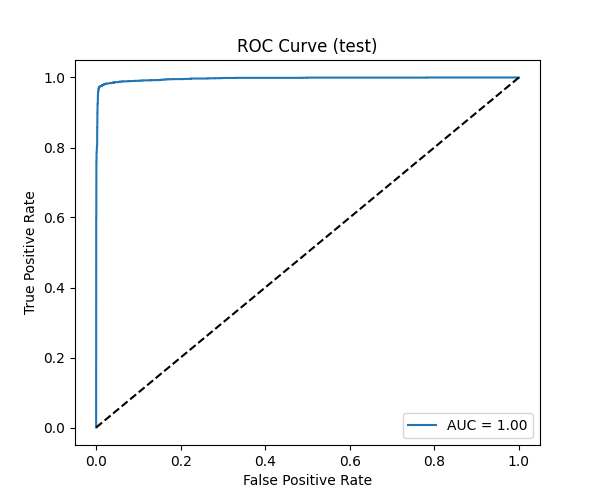
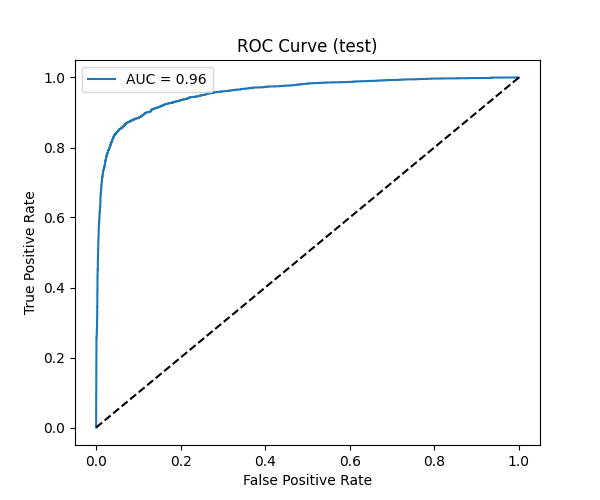
Diafores allages sta scirpts

diff --git a/src/Models/Random Forest - Gradient Boosting/Gradient_Booster.py b/src/Models/Random Forest - Gradient Boosting/Gradient_Booster.py
@@ -5,9 +5,8 @@ import mlflow
 import sys
 import os
 import time
-from sklearn.ensemble import GradientBoostingClassifier
+from sklearn.linear_model import SGDClassifier
 from sklearn.metrics import accuracy_score, f1_score
-
 sys.path.append(os.path.abspath(os.path.join(os.path.dirname(__file__), '..')))
 import mlflow_helper
 
@@ -16,8 +15,13 @@ current_script_path = os.path.dirname(os.path.abspath(__file__))
 project_root = os.path.abspath(os.path.join(current_script_path, '../../..'))
 DATA_FOLDER = os.path.join(project_root, 'data', 'clean', 'umap')
 
-
 def load_split_data(data_path):
+    """
+    Φορτώνει τα έτοιμα Train/Valid/Test αρχεία Parquet.
+    - Διαχειρίζεται αυτόματα fastparquet/pyarrow.
+    - Αναγνωρίζει τα features και το label.
+    - Δεν εφαρμόζει scaling (βάσει οδηγίας).
+    """
     files = {
         "Train": "train_umap_500.parquet",
         "Valid": "valid_umap_500.parquet",
@@ -36,7 +40,7 @@ def load_split_data(data_path):
             print(f"❌ Το αρχείο {filename} δεν βρέθηκε.")
             sys.exit(1)
 
-        # 1. Φόρτωση DataFrame
+        # 1. Φόρτωση DataFrame (Δοκιμή fastparquet -> pyarrow)
         try:
             df = pd.read_parquet(file_path, engine='fastparquet')
         except Exception:
@@ -58,26 +62,33 @@ def load_split_data(data_path):
                 label_col = col
                 break
 
+        # Fallback: Αν δεν βρεθεί label, ψάχνουμε για εξωτερικό αρχείο ή την εναπομείνασα στήλη
         if label_col is None:
             remaining = [c for c in df.columns if c not in feature_cols]
             if len(remaining) == 1:
                 label_col = remaining[0]
                 print(f"   ⚠ {name}: Αυτόματος εντοπισμός label στήλης: '{label_col}'")
+            else:
+                # Έλεγχος για εξωτερικό αρχείο labels
+                prefix = filename.split('_')[0]
+                ext_label_path = os.path.join(data_path, f"{prefix}_labels.csv")
+                if os.path.exists(ext_label_path):
+                    print(f"   ℹ {name}: Ανάγνωση labels από εξωτερικό αρχείο ({prefix}_labels.csv)")
+                    df_labels = pd.read_csv(ext_label_path)
+                    y = df_labels.iloc[:, 0].values.astype(int)
+                    # Εδώ πρέπει να ορίσουμε το X και να συνεχίσουμε
+                    X = df[feature_cols].values.astype(np.float32)
+                    loaded_data[name] = (X, y)
+                    print(f"   ✅ {name} loaded: X={X.shape}, y={y.shape}")
+                    continue
+                else:
+                    print(f"⛔ Σφάλμα στο {name}: Δεν βρέθηκε στήλη label.")
+                    sys.exit(1)
 
         if label_col:
             if label_col in feature_cols:
                 feature_cols.remove(label_col)
             y = df[label_col].values.astype(int)
-        else:
-            # Fallback: Έλεγχος για εξωτερικό αρχείο
-            prefix = filename.split('_')[0]
-            ext_label_path = os.path.join(data_path, f"{prefix}_labels.csv")
-            if os.path.exists(ext_label_path):
-                print(f"   ℹ {name}: Ανάγνωση labels από εξωτερικό αρχείο ({prefix}_labels.csv)")
-                y = pd.read_csv(ext_label_path).iloc[:, 0].values.astype(int)
-            else:
-                print(f"⛔ Σφάλμα στο {name}: Δεν βρέθηκε στήλη label.")
-                sys.exit(1)
 
         # 4. Μετατροπή σε Numpy Arrays
         X = df[feature_cols].values.astype(np.float32)
@@ -93,19 +104,27 @@ def load_split_data(data_path):
 
 def objective(trial, X_tr, y_tr, X_v, y_v):
     """
-    Objective function για το Optuna (Gradient Boosting).
+    Objective function για το Optuna (SGD).
     """
-    # --- Search Space ---
+    # --- Search Space SGD ---
+    loss_type = trial.suggest_categorical("loss", ["hinge", "log_loss", "modified_huber", "perceptron"])
+    penalty = trial.suggest_categorical("penalty", ["l2", "l1", "elasticnet"])
+    alpha = trial.suggest_float("alpha", 1e-6, 1e-1, log=True)
+
     params = {
-        "n_estimators": trial.suggest_int("n_estimators", 100, 300),
-        "learning_rate": trial.suggest_float("learning_rate", 0.01, 0.2, log=True),
-        "max_depth": trial.suggest_int("max_depth", 3, 10),
-        "min_samples_split": trial.suggest_int("min_samples_split", 10, 50),
-        "subsample": trial.suggest_float("subsample", 0.6, 1.0),
+        "loss": loss_type,
+        "penalty": penalty,
+        "alpha": alpha,
+        "max_iter": 1000,
+        "early_stopping": True,
+        "n_iter_no_change": 5,
         "random_state": 42
     }
 
-    model = GradientBoostingClassifier(**params)
+    if penalty == "elasticnet":
+        params["l1_ratio"] = trial.suggest_float("l1_ratio", 0.0, 1.0)
+
+    model = SGDClassifier(**params)
 
     # --- Μέτρηση Χρόνου Εκπαίδευσης (Trial) ---
     start_time = time.time()
@@ -120,19 +139,19 @@ def objective(trial, X_tr, y_tr, X_v, y_v):
 
     metrics = {"val_f1": f1, "val_accuracy": acc, "training_time_sec": training_time}
 
-    # Log στο MLflow με όνομα GB_Trial
+    # Log στο MLflow με συγκεκριμένο prefix ονόματος
     mlflow_helper.log_optuna_trial(
         trial,
         params,
         metrics,
         model,
-        run_name_prefix="GB_Trial"
+        run_name_prefix="SGD_Trial"
     )
 
     return f1
 
 def run_experiment():
-    EXPERIMENT_NAME = "Clickbait_GradientBoosting_UMAP_Final"
+    EXPERIMENT_NAME = "Clickbait_SGD_UMAP_Final_NoScaling"
 
     # 1. Setup MLflow
     mlflow_helper.setup_mlflow(EXPERIMENT_NAME)
@@ -141,21 +160,21 @@ def run_experiment():
     # 2. Φόρτωση Δεδομένων
     (X_train, y_train), (X_val, y_val), (X_test, y_test) = load_split_data(DATA_FOLDER)
 
-    # Σημείωση: Στο Gradient Boosting δεν είναι αυστηρά απαραίτητο το StandardScaler,
-    # οπότε δεν το εφαρμόζουμε εδώ για να κρατήσουμε τη διαδικασία "καθαρή" για δέντρα.
+    print("ℹ Σημείωση: Δεν εφαρμόζεται Feature Scaling (StandardScaler) στα UMAP embeddings.")
 
     # --- ΦΑΣΗ 1: Hyperparameter Tuning ---
     print("\n🔍 ΦΑΣΗ 1: Αναζήτηση Βέλτιστων Παραμέτρων (Optuna)...")
 
-    with mlflow.start_run(run_name="🔍_GB_Hyperparameter_Tuning") as tuning_run:
+    # Parent Run για το Tuning
+    with mlflow.start_run(run_name="🔍_SGD_Hyperparameter_Tuning") as tuning_run:
         mlflow.log_param("dataset", "UMAP_500")
-        mlflow.log_param("model_type", "GradientBoosting")
+        mlflow.log_param("scaling", "None")
 
         sampler = optuna.samplers.TPESampler(seed=42)
         study = optuna.create_study(direction="maximize", sampler=sampler)
 
-        # Εκτέλεση 15 trials (το GB είναι πιο αργό από το SGD)
-        study.optimize(lambda trial: objective(trial, X_train, y_train, X_val, y_val), n_trials=15)
+        # Εκτέλεση 20 trials
+        study.optimize(lambda trial: objective(trial, X_train, y_train, X_val, y_val), n_trials=20)
 
         print(f"🏆 Best Params found: {study.best_params}")
         print(f"🏆 Best Val F1: {study.best_value:.4f}")
@@ -163,16 +182,23 @@ def run_experiment():
     # --- ΦΑΣΗ 2: Champion Model Training (ΞΕΧΩΡΙΣΤΟ RUN) ---
     print("\n👑 ΦΑΣΗ 2: Εκπαίδευση & Αποθήκευση Champion Model...")
 
-    with mlflow.start_run(run_name="👑_GB_Champion_Model") as final_run:
+    # Ξεχωριστό Run για το τελικό μοντέλο
+    with mlflow.start_run(run_name="👑_SGD_Champion_Model") as final_run:
+        # Καταγράφουμε τις παραμέτρους του νικητή
         best_params = study.best_params
-        best_params["random_state"] = 42
-
+        best_params.update({
+            "max_iter": 1000,
+            "early_stopping": True,
+            "n_iter_no_change": 5,
+            "random_state": 42
+        })
         mlflow.log_params(best_params)
-        mlflow.log_param("model_type", "GB_Champion")
+        mlflow.log_param("model_type", "SGD_Champion")
+        mlflow.log_param("dataset", "UMAP_500")
 
-        final_model = GradientBoostingClassifier(**best_params)
+        final_model = SGDClassifier(**best_params)
 
-        # Ένωση Train + Val
+        # Ένωση των Train + Valid (χωρίς scaling)
         X_full_train = np.concatenate((X_train, X_val))
         y_full_train = np.concatenate((y_train, y_val))
 
@@ -196,8 +222,7 @@ def run_experiment():
         )
 
         print(f"\n✅ ΤΕΛΟΣ! Το Champion Model αποθηκεύτηκε στο Run ID: {final_run.info.run_id}")
-        print(f"   👉 Αναζητήστε στο MLflow UI το Run με όνομα: '👑_GB_Champion_Model'")
-
+        print(f"   👉 Αναζητήστε στο MLflow UI το Run με όνομα: '👑_SGD_Champion_Model'")
 
 if __name__ == "__main__":
     run_experiment()

diff --git a/src/Models/Stochastic Gradient Decent/SGD.py b/src/Models/Stochastic Gradient Decent/SGD.py
@@ -9,10 +9,6 @@ import time
 from sklearn.linear_model import SGDClassifier
 from sklearn.preprocessing import StandardScaler
 from sklearn.metrics import accuracy_score, f1_score
-
-# --- ΡΥΘΜΙΣΕΙΣ PATHS ---
-# Βρίσκουμε τον φάκελο που είναι το script και πάμε πίσω για να βρούμε το helper
-# (Υποθέτουμε ότι το script τρέχει από τον φάκελο 'Models/Stochastic Gradient Decent')
 sys.path.append(os.path.abspath(os.path.join(os.path.dirname(__file__), '..')))
 import mlflow_helper
 
@@ -24,13 +20,7 @@ current_script_path = os.path.dirname(os.path.abspath(__file__))
 project_root = os.path.abspath(os.path.join(current_script_path, '../../..'))
 DATA_FOLDER = os.path.join(project_root, 'data', 'clean', 'umap')
 
-
 def load_split_data(data_path):
-    """
-    Φορτώνει τα έτοιμα Train/Valid/Test αρχεία Parquet.
-    Αναγνωρίζει αυτόματα τα UMAP features και τη στήλη 'labels'.
-    Διαχειρίζεται fastparquet/pyarrow και εξωτερικά αρχεία labels.
-    """
     files = {
         "Train": "train_umap_500.parquet",
         "Valid": "valid_umap_500.parquet",
@@ -60,10 +50,7 @@ def load_split_data(data_path):
                 sys.exit(1)
 
         # 2. Εντοπισμός Features (X)
-        # Βρίσκουμε όλες τις στήλες που ξεκινάνε με 'umap_'
         feature_cols = [c for c in df.columns if c.startswith("umap_")]
-
-        # Αν δεν βρεθούν, χρησιμοποιούμε όλες εκτός από τα πιθανά labels
         if not feature_cols:
             feature_cols = [c for c in df.columns if c not in possible_label_cols]
 
@@ -195,7 +182,6 @@ def run_experiment():
     # --- ΦΑΣΗ 2: Champion Model Training (ΞΕΧΩΡΙΣΤΟ RUN) ---
     print("\n👑 ΦΑΣΗ 2: Εκπαίδευση & Αποθήκευση Champion Model...")
 
-    # Ξεκινάμε ΕΝΤΕΛΩΣ ΝΕΟ Run για να ξεχωρίζει στο UI
     with mlflow.start_run(run_name="👑_SGD_Champion_Model") as final_run:
         # Καταγράφουμε τις παραμέτρους του νικητή
         best_params = study.best_params
